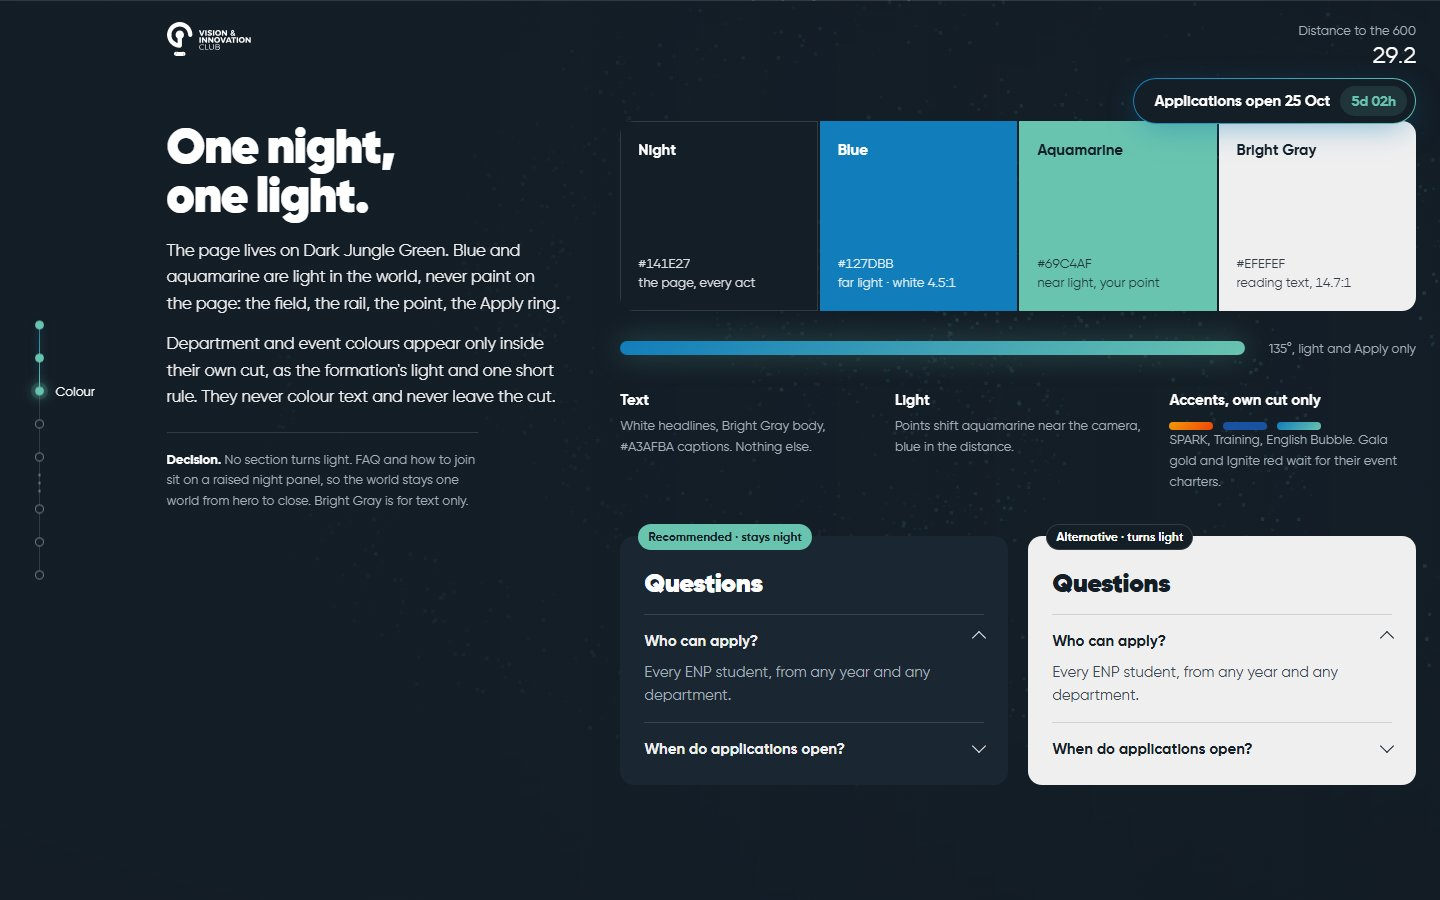
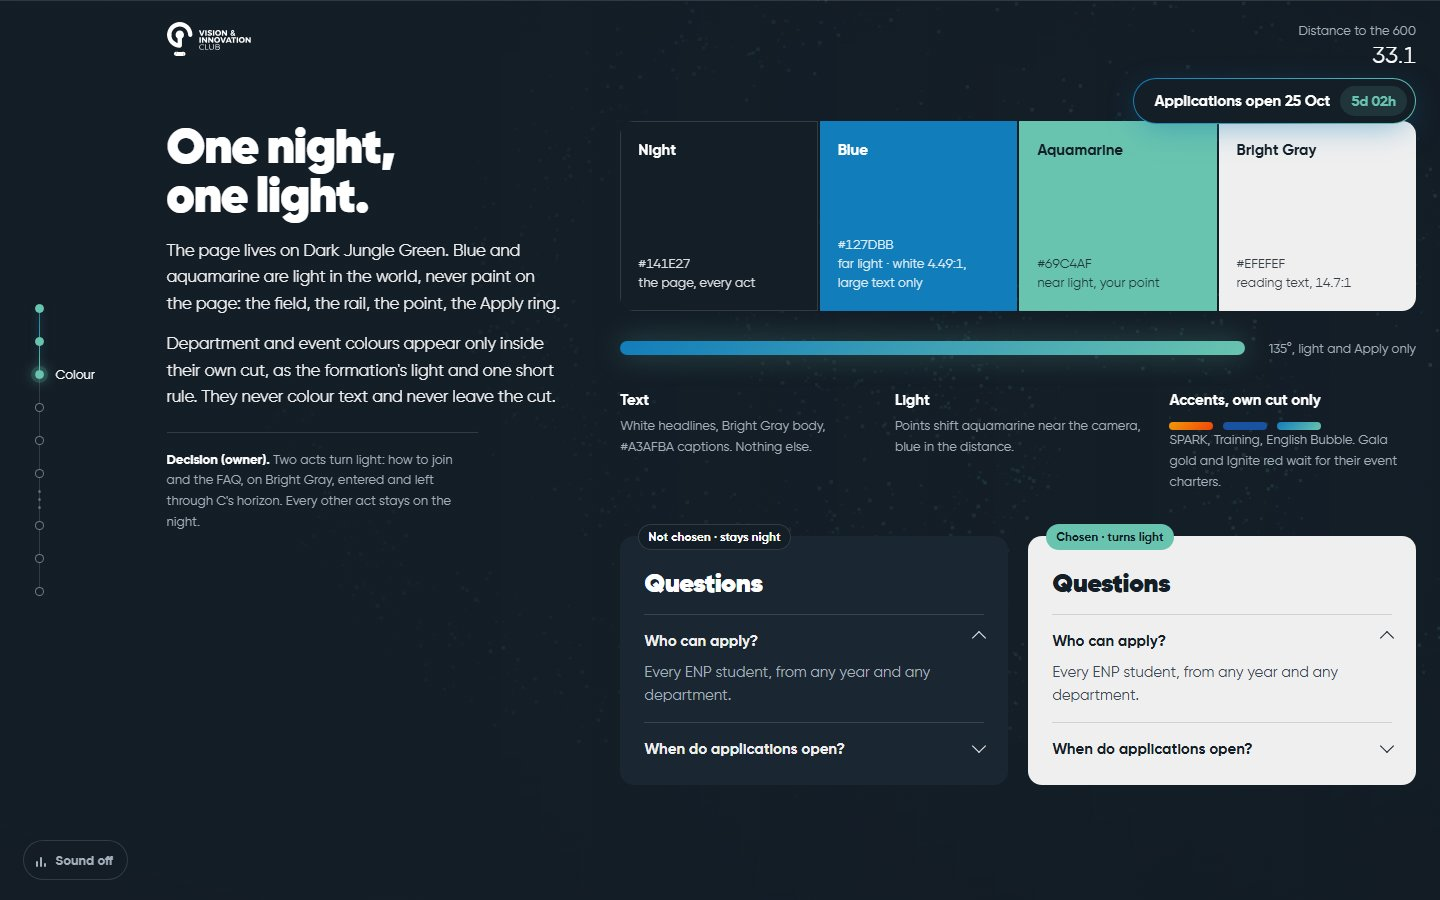
Prototype #10: light act for FAQ and how to join, optional sound toggle (owner round 1)

diff --git a/prototype/system/index.html b/prototype/system/index.html
@@ -202,6 +202,56 @@ main{position:relative;z-index:2}
 .toggle svg{width:18px;height:18px}
 .strike{font-size:var(--t-cap);color:var(--mute)}
 
+/* the light act: FAQ and how to join turn Bright Gray, entered through C's horizon */
+.lightact{position:relative;z-index:2;background:var(--gray);color:var(--night)}
+.horizon{position:relative;height:46vh;background:linear-gradient(180deg,var(--night) 0%,#1d2b37 34%,#5d6b77 66%,var(--gray) 100%)}
+.horizon::after{content:"";position:absolute;left:0;right:0;top:52%;height:1px;background:linear-gradient(90deg,transparent,#127DBB 30%,#69C4AF 70%,transparent);box-shadow:0 0 24px 2px rgba(105,196,175,.45)}
+.horizon.down{background:linear-gradient(0deg,var(--night) 0%,#1d2b37 34%,#5d6b77 66%,var(--gray) 100%)}
+.horizon.down::after{top:48%}
+.horizon p{position:absolute;left:var(--gut);bottom:18px;font-size:var(--t-cap);color:#3b4954}
+.horizon.down p{top:18px;bottom:auto}
+.lplate{display:grid;grid-template-columns:minmax(260px,4fr) 8fr;gap:56px;padding:40px 24px 110px var(--gut);max-width:1500px}
+.lplate h2{font-weight:900;font-size:clamp(32px,3.4vw,52px);line-height:1;letter-spacing:-.02em;margin-bottom:18px;text-wrap:balance}
+.lplate .why{color:#2c3a46;max-width:38ch}.lplate .why + .why{margin-top:14px}
+.lplate .decide{margin-top:22px;padding-top:16px;border-top:1px solid rgba(20,30,39,.16);font-size:var(--t-cap);color:#4a5762;max-width:38ch}
+.lplate .decide b{color:var(--night)}
+.lact h3{font-weight:900;font-size:var(--t-act);line-height:.98;letter-spacing:-.02em;margin-bottom:28px}
+.lsteps{display:grid;grid-template-columns:repeat(3,1fr);gap:28px;margin-bottom:72px}
+.lsteps div{position:relative;padding-top:64px;font-size:15px;line-height:1.5;color:#3b4954}
+.lsteps em{position:absolute;top:-18px;left:-4px;font-style:normal;font-weight:900;font-size:104px;line-height:1;letter-spacing:-.04em;color:transparent;-webkit-text-stroke:1.5px rgba(20,30,39,.18)}
+.lsteps b{position:relative;display:block;font-weight:700;font-size:18px;color:var(--night);margin-bottom:6px}
+.lfaq details{border-top:1px solid rgba(20,30,39,.16);padding:20px 0}
+.lfaq details:last-child{border-bottom:1px solid rgba(20,30,39,.16)}
+.lfaq summary{list-style:none;cursor:pointer;display:flex;justify-content:space-between;gap:18px;font-weight:700;font-size:19px;color:var(--night)}
+.lfaq summary::-webkit-details-marker{display:none}
+.lfaq summary::after{content:"";width:10px;height:10px;flex:none;margin-top:6px;border-right:1.5px solid;border-bottom:1.5px solid;transform:rotate(45deg);transition:transform .3s var(--ease)}
+.lfaq details[open] summary::after{transform:rotate(-135deg)}
+.lfaq p{margin-top:10px;max-width:62ch;color:#3b4954;font-size:16px}
+.lfaq a{color:oklch(0.54 0.129 242.2);text-underline-offset:3px}
+.lightact ::selection{background:var(--night);color:var(--gray)}
+.lightact :focus-visible{outline-color:oklch(0.54 0.129 242.2)}
+
+/* chrome over a light act: each piece flips on its own as the light passes under it */
+.logo,.readout,.rail a,.sound{transition:color .35s var(--ease),opacity .35s var(--ease),background .35s var(--ease),border-color .35s var(--ease)}
+.logo.lit{opacity:0;pointer-events:none}
+.readout.lit{color:#4a5762}.readout.lit b{color:var(--night)}
+.rail a.lit{color:rgba(20,30,39,.4)}.rail a.lit.on{color:var(--night)}
+.rail a.lit i{background:var(--gray)}.rail a.lit.on i{background:var(--night);border-color:var(--night)}
+.rail a.lit.now i{box-shadow:0 0 0 4px rgba(20,30,39,.12)}
+
+/* the optional sound toggle: off on arrival */
+.sound{position:fixed;left:calc(var(--rail) - 12px);bottom:20px;z-index:10;display:inline-flex;align-items:center;gap:10px;height:40px;padding:0 14px 0 12px;border-radius:999px;border:1px solid var(--line);background:rgba(20,30,39,.7);backdrop-filter:blur(8px);-webkit-backdrop-filter:blur(8px);color:var(--mute);font:inherit;font-weight:700;font-size:var(--t-cap);cursor:pointer}
+.sound:hover{color:#fff;border-color:rgba(239,239,239,.3)}
+.sound .bars{display:flex;align-items:flex-end;gap:2px;height:14px}
+.sound .bars i{display:block;width:2px;height:6px;border-radius:1px;background:currentColor}
+.sound .bars i:nth-child(2){height:10px}.sound .bars i:nth-child(3){height:4px}
+.sound[aria-pressed="true"]{color:var(--aqua);border-color:rgba(105,196,175,.45)}
+.sound[aria-pressed="true"] .bars i{animation:eq 1.1s var(--ease) infinite alternate}
+.sound[aria-pressed="true"] .bars i:nth-child(2){animation-delay:-.4s}.sound[aria-pressed="true"] .bars i:nth-child(3){animation-delay:-.8s}
+@keyframes eq{from{height:3px}to{height:14px}}
+.sound.lit{background:rgba(239,239,239,.8);color:#4a5762;border-color:rgba(20,30,39,.16)}
+.sound.lit[aria-pressed="true"]{color:var(--night)}
+
 footer{position:relative;z-index:2;padding:80px 24px 120px var(--gut);font-size:var(--t-cap);color:var(--mute);border-top:1px solid var(--line)}
 footer::before{content:"";position:absolute;inset:0;background:rgba(20,30,39,.9);z-index:-1}
 
@@ -212,6 +262,9 @@ footer::before{content:"";position:absolute;inset:0;background:rgba(20,30,39,.9)
   .uses,.steps{grid-template-columns:1fr}
   .light-pair,.states{grid-template-columns:1fr}
   .navdemo{grid-template-columns:1fr;gap:28px}
+  .lplate{grid-template-columns:1fr;gap:36px;padding:28px 16px 84px var(--gut)}
+  .lsteps{grid-template-columns:1fr;gap:12px}
+  .lsteps em{font-size:84px}
 }
 @media (max-width:767px){
   :root{--rail:10px;--gut:40px}
@@ -229,8 +282,11 @@ footer::before{content:"";position:absolute;inset:0;background:rgba(20,30,39,.9)
   .grains{grid-template-columns:1fr 1fr 1fr}
   .gr-wrap figcaption{left:8px;bottom:8px;font-size:11px}
   footer{padding:60px 16px 120px var(--gut)}
+  .sound{left:12px;bottom:16px;width:46px;height:46px;padding:0;justify-content:center}
+  .sound .lbl{display:none}
+  .horizon{height:34vh}
 }
-@media (prefers-reduced-motion:reduce){*{transition:none!important}}
+@media (prefers-reduced-motion:reduce){*{transition:none!important}.sound[aria-pressed="true"] .bars i{animation:none;height:9px}}
 </style>
 </head>
 <body>
@@ -244,6 +300,7 @@ footer::before{content:"";position:absolute;inset:0;background:rgba(20,30,39,.9)
   <a href="#top"><i></i><span>Start</span></a>
   <a href="#type"><i></i><span>Type</span></a>
   <a href="#colour"><i></i><span>Colour</span></a>
+  <a href="#light"><i></i><span>Light act</span></a>
   <a href="#texture"><i></i><span>Texture</span></a>
   <a href="#apply"><i></i><span>Apply</span></a>
   <div class="ticks" aria-hidden="true"><b></b><b></b><b></b></div>
@@ -251,6 +308,7 @@ footer::before{content:"";position:absolute;inset:0;background:rgba(20,30,39,.9)
   <a href="#loader"><i></i><span>Loader</span></a>
   <a href="#cursor"><i></i><span>Cursor and sound</span></a>
 </nav>
+<button class="sound" id="sound" type="button" aria-pressed="false" aria-label="Sound"><span class="bars" aria-hidden="true"><i></i><i></i><i></i></span><span class="lbl">Sound off</span></button>
 
 <!-- the sticky pill: state comes from OPENS_AT -->
 <a class="pill sticky hide" id="pill" href="https://www.instagram.com/vic.enp/"></a>
@@ -288,7 +346,7 @@ footer::before{content:"";position:absolute;inset:0;background:rgba(20,30,39,.9)
     <h2>One night, one light.</h2>
     <p class="why">The page lives on Dark Jungle Green. Blue and aquamarine are light in the world, never paint on the page: the field, the rail, the point, the Apply ring.</p>
     <p class="why">Department and event colours appear only inside their own cut, as the formation's light and one short rule. They never colour text and never leave the cut.</p>
-    <p class="decide"><b>Decision.</b> No section turns light. FAQ and how to join sit on a raised night panel, so the world stays one world from hero to close. Bright Gray is for text only.</p>
+    <p class="decide"><b>Decision (owner).</b> Two acts turn light: how to join and the FAQ, on Bright Gray, entered and left through C's horizon. Every other act stays on the night.</p>
   </div>
   <div>
     <div class="swatches">
@@ -304,18 +362,46 @@ footer::before{content:"";position:absolute;inset:0;background:rgba(20,30,39,.9)
       <div><b>Accents, own cut only</b><span class="accents"><i style="background:var(--spark)"></i><i style="background:var(--training)"></i><i style="background:var(--grad)"></i></span>SPARK, Training, English Bubble. Gala gold and Ignite red wait for their event charters.</div>
     </div>
     <div class="light-pair">
-      <div class="faq dark"><span class="tagline rec">Recommended · stays night</span>
+      <div class="faq dark"><span class="tagline">Not chosen · stays night</span>
         <h4>Questions</h4>
         <details open><summary>Who can apply?</summary><p>Every ENP student, from any year and any department.</p></details>
         <details><summary>When do applications open?</summary><p>25 October 2026.</p></details>
       </div>
-      <div class="faq lite"><span class="tagline">Alternative · turns light</span>
+      <div class="faq lite"><span class="tagline rec">Chosen · turns light</span>
         <h4>Questions</h4>
         <details open><summary>Who can apply?</summary><p>Every ENP student, from any year and any department.</p></details>
         <details><summary>When do applications open?</summary><p>25 October 2026.</p></details>
       </div>
     </div>
   </div>
+</section>
+
+<!-- LIGHT ACT -->
+<section class="lightact" id="light">
+  <div class="horizon" aria-hidden="true"><p>The horizon: C's passage lifts the night into the light.</p></div>
+  <div class="lplate">
+    <div class="side">
+      <h2>The calm acts turn light.</h2>
+      <p class="why">How to join and the FAQ are where the visitor stops being dazzled and starts checking facts. They sit on Bright Gray, night text at 14.7:1, the world asleep under them. Links use the nudged blue that clears 4.5:1 on light.</p>
+      <p class="why">The chrome follows piece by piece: the rail and readout turn night, the pill stays night and stands out more, the logo steps away (the charter keeps the full-colour logo for white or black only).</p>
+      <p class="decide"><b>Decision.</b> Bright Gray for exactly these two acts, entered and left through a horizon. Ghost numerals for the steps, hairline rows for the FAQ (#4). Step copy waits for the registration check in content.md.</p>
+    </div>
+    <div class="lact">
+      <h3>How to join.</h3>
+      <div class="lsteps">
+        <div><em>01</em><b>Fill in the form</b>Every ENP student, any year, any specialty. One main department, one activity department.</div>
+        <div><em>02</em><b>Meet two VICers</b>An interview with two club members, about your first-choice department.</div>
+        <div><em>03</em><b>Join your teams</b>Get your result and start with your departments.</div>
+      </div>
+      <h3>Questions.</h3>
+      <div class="lfaq">
+        <details open><summary>Do I need experience?</summary><p>No. Trainings and workshops are part of membership, and VIC's whole purpose is to help you learn.</p></details>
+        <details><summary>I'm in first year. Can I join?</summary><p>Yes. Any ENP student can join.</p></details>
+        <details><summary>Is the IT department about coding?</summary><p>No. IT at VIC means design, visual identity, photography and video. <a href="#light">See the departments</a>.</p></details>
+      </div>
+    </div>
+  </div>
+  <div class="horizon down" aria-hidden="true"><p>And back into the night.</p></div>
 </section>
 
 <!-- TEXTURE -->
@@ -399,14 +485,14 @@ footer::before{content:"";position:absolute;inset:0;background:rgba(20,30,39,.9)
 <!-- CURSOR + SOUND -->
 <section class="plate" id="cursor">
   <div class="side">
-    <h2>Your cursor stays yours. Silence by default.</h2>
+    <h2>Your cursor stays yours. Sound waits to be asked.</h2>
     <p class="why">The pointer is the system's own. Your point is the one thing, and a second dot chasing the mouse would compete with it. Instead the field leans gently toward the pointer on desktop; on phones it leans toward the touch while it lasts.</p>
-    <p class="why">No sound and no toggle. Most visitors are in Instagram's browser with the sound off, and a toggle is one more control in the corner for nobody.</p>
-    <p class="decide"><b>Decision.</b> Native cursor, field lean as a bonus. Open question 21 keeps its default: no sound.</p>
+    <p class="why">The page arrives silent. One small toggle sits bottom left, opposite the Apply pill: three still bars and "Sound off". Pressed, the bars move and a low ambient bed fades in over a second and a half. It never starts by itself.</p>
+    <p class="decide"><b>Decision (owner).</b> Native cursor, field lean as a bonus. Open question 21: an optional toggle, off on arrival. The bed here is a synthesized stand-in; the real one needs a sound asset (one loop, under 300 KB).</p>
   </div>
-  <div style="display:grid;gap:20px">
+  <div style="display:grid;gap:20px;align-content:start">
     <div class="lean"><canvas id="leanc"></canvas><p>Move the pointer here: the points lean, the cursor does not change.</p></div>
-    <div class="soundrow"><span class="toggle" aria-hidden="true"><svg viewBox="0 0 18 18" fill="none" stroke="currentColor" stroke-width="1.5" stroke-linecap="round" stroke-linejoin="round"><path d="M3 7v4h3l4 3V4L6 7H3z"/><path d="M13 7l3 4M16 7l-3 4"/></svg>Sound</span><span class="strike">Not built. Shown only so you can say yes if you want it.</span></div>
+    <div class="soundrow"><span class="strike">The toggle is live, bottom left of this page. Off: still bars, "Sound off". On: aquamarine, moving bars, "Sound on". Phones show the bars only, in a 46 px circle.</span></div>
   </div>
 </section>
 </main>
@@ -458,6 +544,13 @@ function onScroll(){
   ticks.forEach((t, i) => t.classList.toggle('on', cur >= 4 && k > i / 3));
   dist.textContent = (48 * (1 - p)).toFixed(1);
   pill.classList.toggle('hide', y < innerHeight * .6 && !shot);
+  // each chrome piece flips when the light act's Bright Gray part is under its own centre
+  const L = document.getElementById('light'), hz = L.querySelectorAll('.horizon'), lb = L.getBoundingClientRect();
+  const top = lb.top + hz[0].offsetHeight * .85, bot = lb.bottom - hz[1].offsetHeight * .85;
+  for (const el of [document.querySelector('.logo'), document.querySelector('.readout'), document.getElementById('sound'), ...links]) {
+    const b = el.getBoundingClientRect(), c = b.top + b.height / 2;
+    el.classList.toggle('lit', c > top && c < bot);
+  }
 }
 addEventListener('scroll', onScroll, { passive: true }); addEventListener('resize', onScroll); onScroll();
 if (shot) pill.classList.remove('hide');
@@ -515,6 +608,24 @@ field(document.getElementById('lc'), LN, {
   }
 });
 document.getElementById('replay').onclick = () => lt0 = performance.now();
+
+// optional sound: a synthesized stand-in bed, off on arrival
+let ac, bed;
+document.getElementById('sound').onclick = function(){
+  const on = this.getAttribute('aria-pressed') !== 'true';
+  this.setAttribute('aria-pressed', on); this.querySelector('.lbl').textContent = on ? 'Sound on' : 'Sound off';
+  if (!ac) {
+    ac = new AudioContext(); bed = ac.createGain(); bed.gain.value = 0;
+    const lp = ac.createBiquadFilter(); lp.type = 'lowpass'; lp.frequency.value = 520; lp.connect(bed); bed.connect(ac.destination);
+    for (const [f, g] of [[55, .5], [82.4, .32], [110.3, .16], [164.8, .07]]) {
+      const o = ac.createOscillator(), v = ac.createGain(), lfo = ac.createOscillator(), lg = ac.createGain();
+      o.frequency.value = f; v.gain.value = g; lfo.frequency.value = .07 + f / 2000; lg.gain.value = g * .5;
+      lfo.connect(lg); lg.connect(v.gain); o.connect(v); v.connect(lp); o.start(); lfo.start();
+    }
+  }
+  ac.resume(); bed.gain.cancelScheduledValues(ac.currentTime);
+  bed.gain.setTargetAtTime(on ? .09 : 0, ac.currentTime, on ? .5 : .2);
+};
 
 // cursor demo
 field(document.getElementById('leanc'), 900, { cx: .5, cy: .5, scale: 1.1, alpha: .8, host: document.querySelector('.lean') });

diff --git a/prototype/system/README.md b/prototype/system/README.md
@@ -1,7 +1,7 @@
 # System sheet (ticket #10)
 
-Throwaway comp of what every act shares in the A+B+C merge from #8: type, colour, texture, the Apply pill,
-navigation and progress, the loader, the cursor and sound. One plain HTML file, no three.js (the field is a 2D
+Throwaway comp of what every act shares in the A+B+C merge from #8: type, colour, the light act, texture, the Apply pill,
+navigation and progress, the loader, the cursor and the optional sound toggle. One plain HTML file, no three.js (the field is a 2D
 stand-in for A's world). This branch is never merged.
 
 ## Run
@@ -19,7 +19,7 @@ Gilroy is loaded from `fonts/`, git-ignored (commercial font, no web licence yet
 ## Shots
 
 `shots/<plate>-<d|m>.jpg`: `d` is 1440x900, `m` is 390x844, headless Chrome for Testing through the
-playwright-chrome MCP server. `sheet-*.jpg` is the whole page. `open-state-d.jpg` is the pill after opening.
+playwright-chrome MCP server. `sheet-*.jpg` is the whole page. `open-state-d.jpg` is the pill after opening; `horizon-*`, `light-*`, `light2-*` the light act and the chrome over it; `sound-on-*` the toggle on.
 
 ## Detector
 
